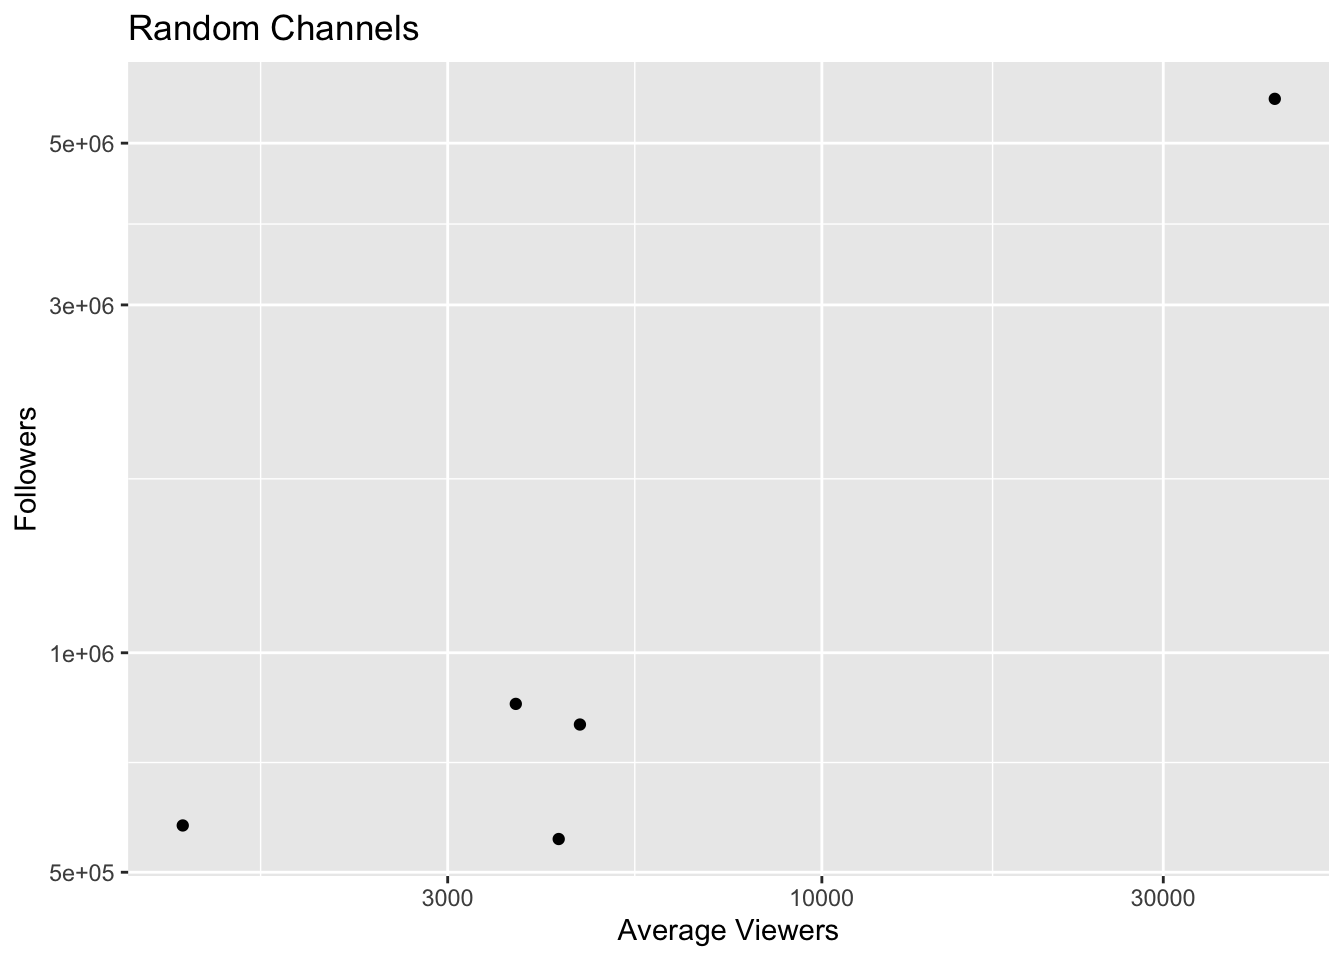
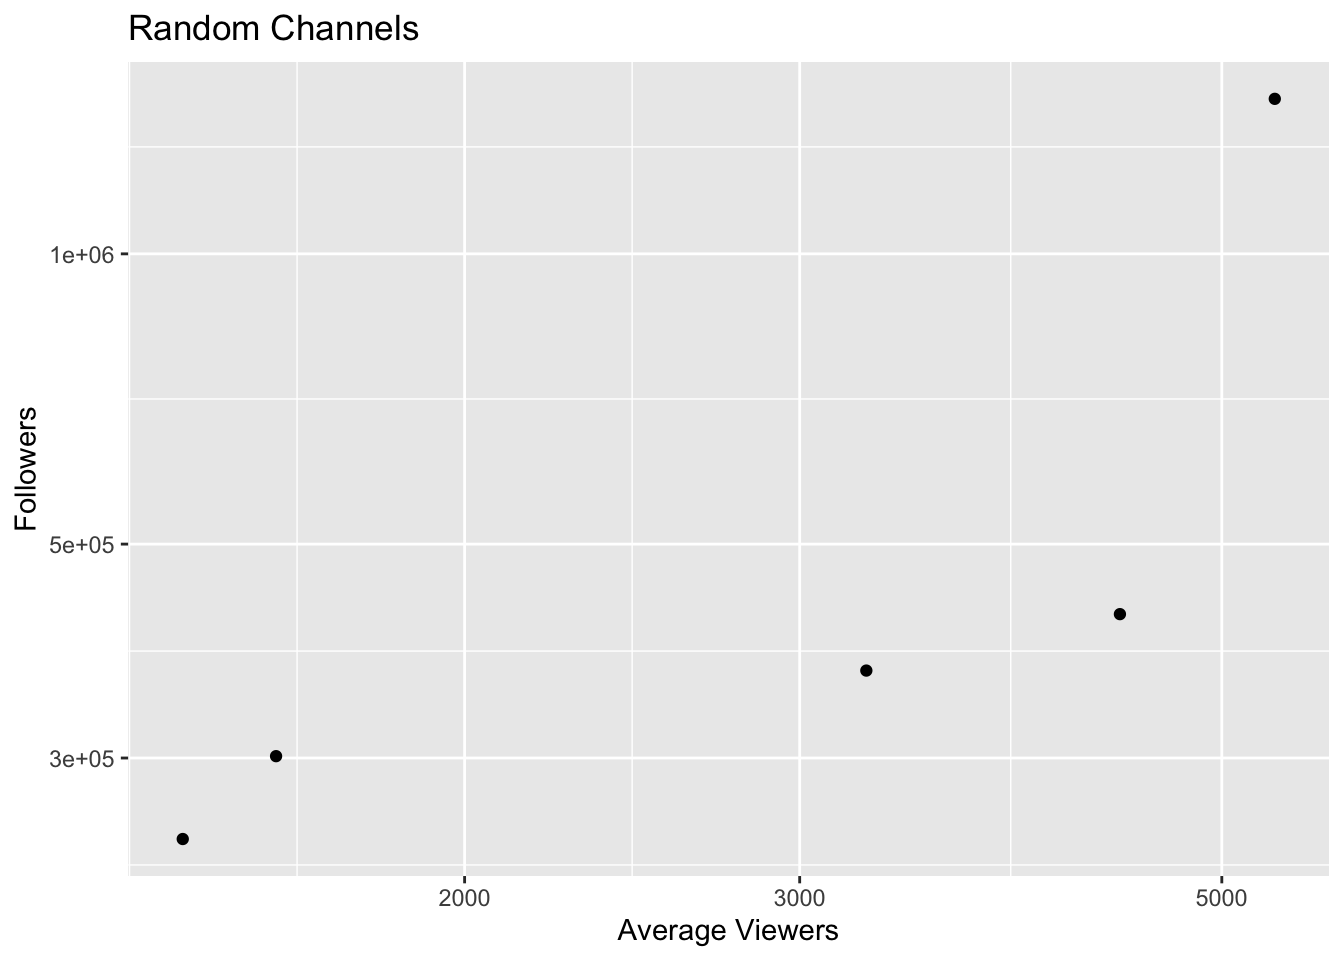
4

diff --git a/MD_HW5.html b/MD_HW5.html
@@ -158,13 +158,13 @@ Attaching package: 'janitor'</code></pre>
 <span id="cb10-3"><a href="#cb10-3" aria-hidden="true" tabindex="-1"></a>  <span class="fu">sample_n</span>(<span class="at">size =</span> <span class="dv">5</span>) </span></code><button title="Copy to Clipboard" class="code-copy-button"><i class="bi"></i></button></pre></div>
 <div class="cell-output cell-output-stdout">
 <pre><code># A tibble: 5 × 3
-  channel     average_viewers followers
-  &lt;chr&gt;                 &lt;dbl&gt;     &lt;dbl&gt;
-1 Valkia                 1008    308459
-2 WELOVEGAMES            2761    413458
-3 Aurateur               2492    142427
-4 39daph                 3766    505362
-5 AnthonyZ               1216    199617</code></pre>
+  channel           average_viewers followers
+  &lt;chr&gt;                       &lt;dbl&gt;     &lt;dbl&gt;
+1 DreamHackDota2_RU           22356    203419
+2 tarzaned                     4159    388878
+3 Pieface23                    2149    238155
+4 AladdinTV                    1416    110211
+5 DanucD                       2045    546052</code></pre>
 </div>
 </div>
 <p>What do you notice?</p>
@@ -184,11 +184,11 @@ dplyr 1.1.0.
 <pre><code># A tibble: 5 × 2
   average_viewers followers
             &lt;dbl&gt;     &lt;dbl&gt;
-1            4269    317896
-2             683    206681
-3            7699   2601858
-4            1111    189654
-5             829    227062</code></pre>
+1            1196    324765
+2            1400    229586
+3            1759    151886
+4            6125    442493
+5            1782    236407</code></pre>
 </div>
 </div>
 <p>Describe the results in a few words. Does anything capture your attention?</p>
@@ -312,6 +312,25 @@ $ .std.resid    &lt;dbl&gt; 1.3420109, 0.8227954, 0.5389316, -0.6251793, 0.59536
 </section>
 <section id="question-4" class="level2">
 <h2 class="anchored" data-anchor-id="question-4">Question 4</h2>
+<ol type="1">
+<li><p>The raw data</p></li>
+<li><p>Summaries of the variables</p></li>
+</ol>
+<div class="cell">
+<div class="sourceCode cell-code" id="cb25"><pre class="sourceCode r code-with-copy"><code class="sourceCode r"><span id="cb25-1"><a href="#cb25-1" aria-hidden="true" tabindex="-1"></a>fit2 <span class="ot">&lt;-</span> <span class="fu">lm</span>(log_viewers <span class="sc">~</span> language, <span class="at">data =</span> twitch_data)</span></code><button title="Copy to Clipboard" class="code-copy-button"><i class="bi"></i></button></pre></div>
+</div>
+<ol type="1">
+<li>Plot the variables</li>
+</ol>
+<div class="cell">
+<div class="sourceCode cell-code" id="cb26"><pre class="sourceCode r code-with-copy"><code class="sourceCode r"><span id="cb26-1"><a href="#cb26-1" aria-hidden="true" tabindex="-1"></a>twitch_data <span class="sc">|&gt;</span></span>
+<span id="cb26-2"><a href="#cb26-2" aria-hidden="true" tabindex="-1"></a>  <span class="fu">ggplot</span>(</span>
+<span id="cb26-3"><a href="#cb26-3" aria-hidden="true" tabindex="-1"></a>    <span class="fu">aes</span>(<span class="at">x =</span> average_viewers)) <span class="sc">+</span>   <span class="fu">geom_boxplot</span>() <span class="sc">+</span> <span class="fu">facet_wrap</span>(<span class="sc">~</span>language) <span class="sc">+</span></span>
+<span id="cb26-4"><a href="#cb26-4" aria-hidden="true" tabindex="-1"></a>  <span class="fu">labs</span>(<span class="at">x =</span> <span class="st">"Total Number"</span>, <span class="at">y =</span> <span class="st">"Average Viewers"</span>, <span class="at">title =</span> <span class="st">"Language Average Views"</span>)</span></code><button title="Copy to Clipboard" class="code-copy-button"><i class="bi"></i></button></pre></div>
+<div class="cell-output-display">
+<p><img src="MD_HW5_files/figure-html/unnamed-chunk-13-1.png" class="img-fluid" width="672"></p>
+</div>
+</div>
 </section>
 <section id="question-5" class="level2">
 <h2 class="anchored" data-anchor-id="question-5">Question 5</h2>
